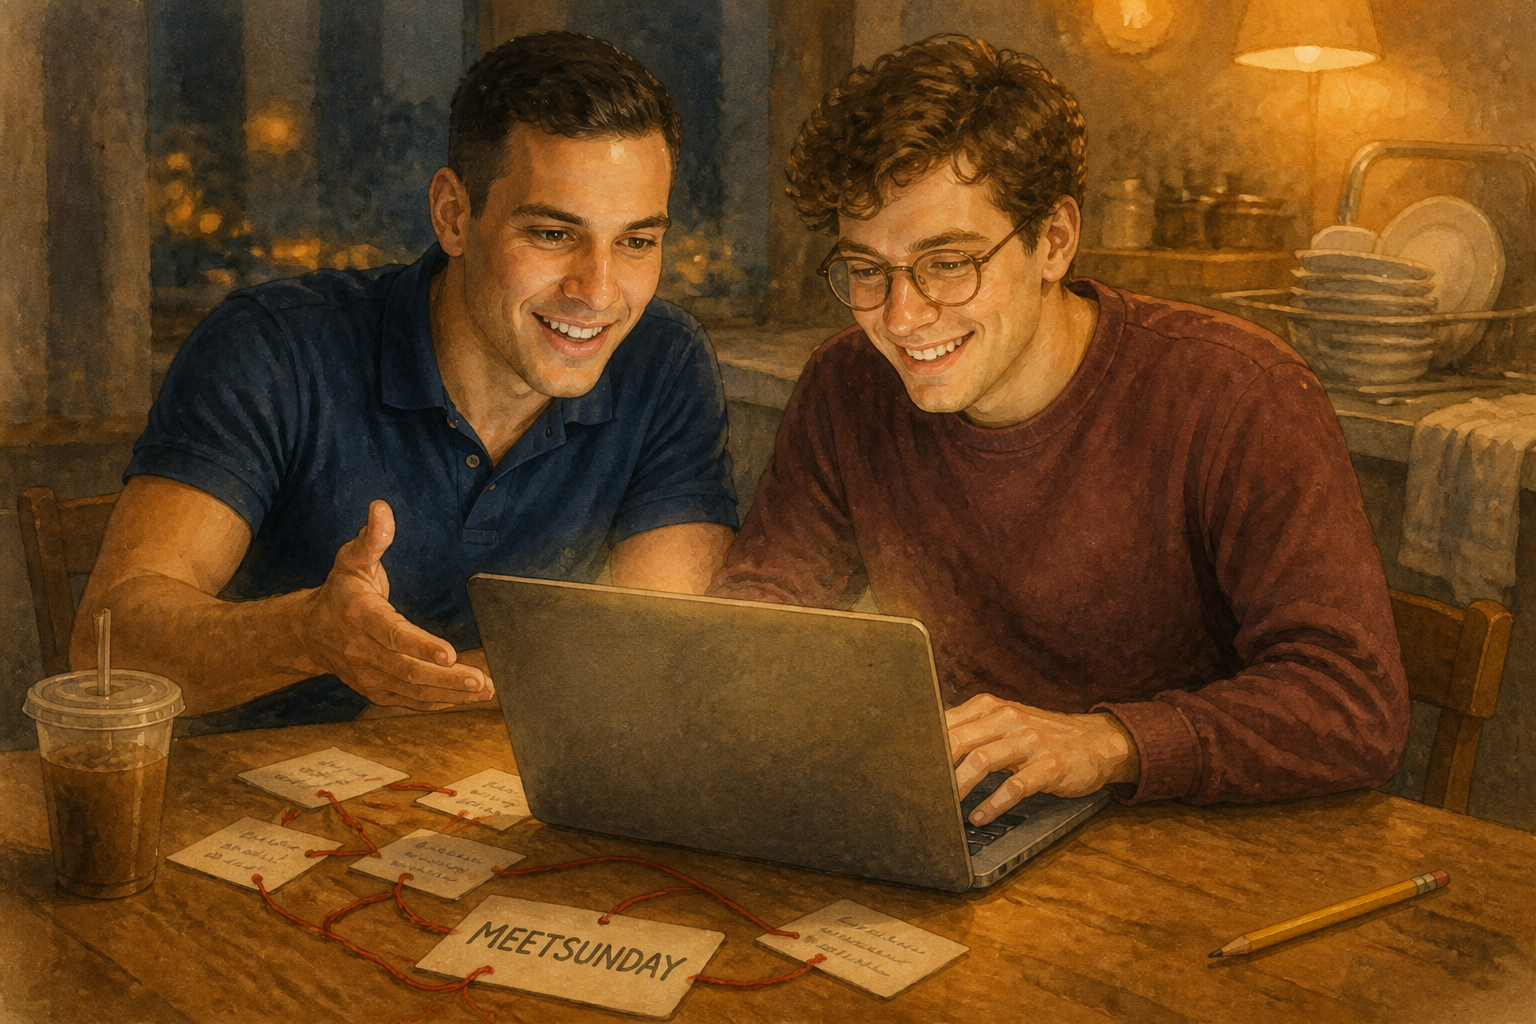
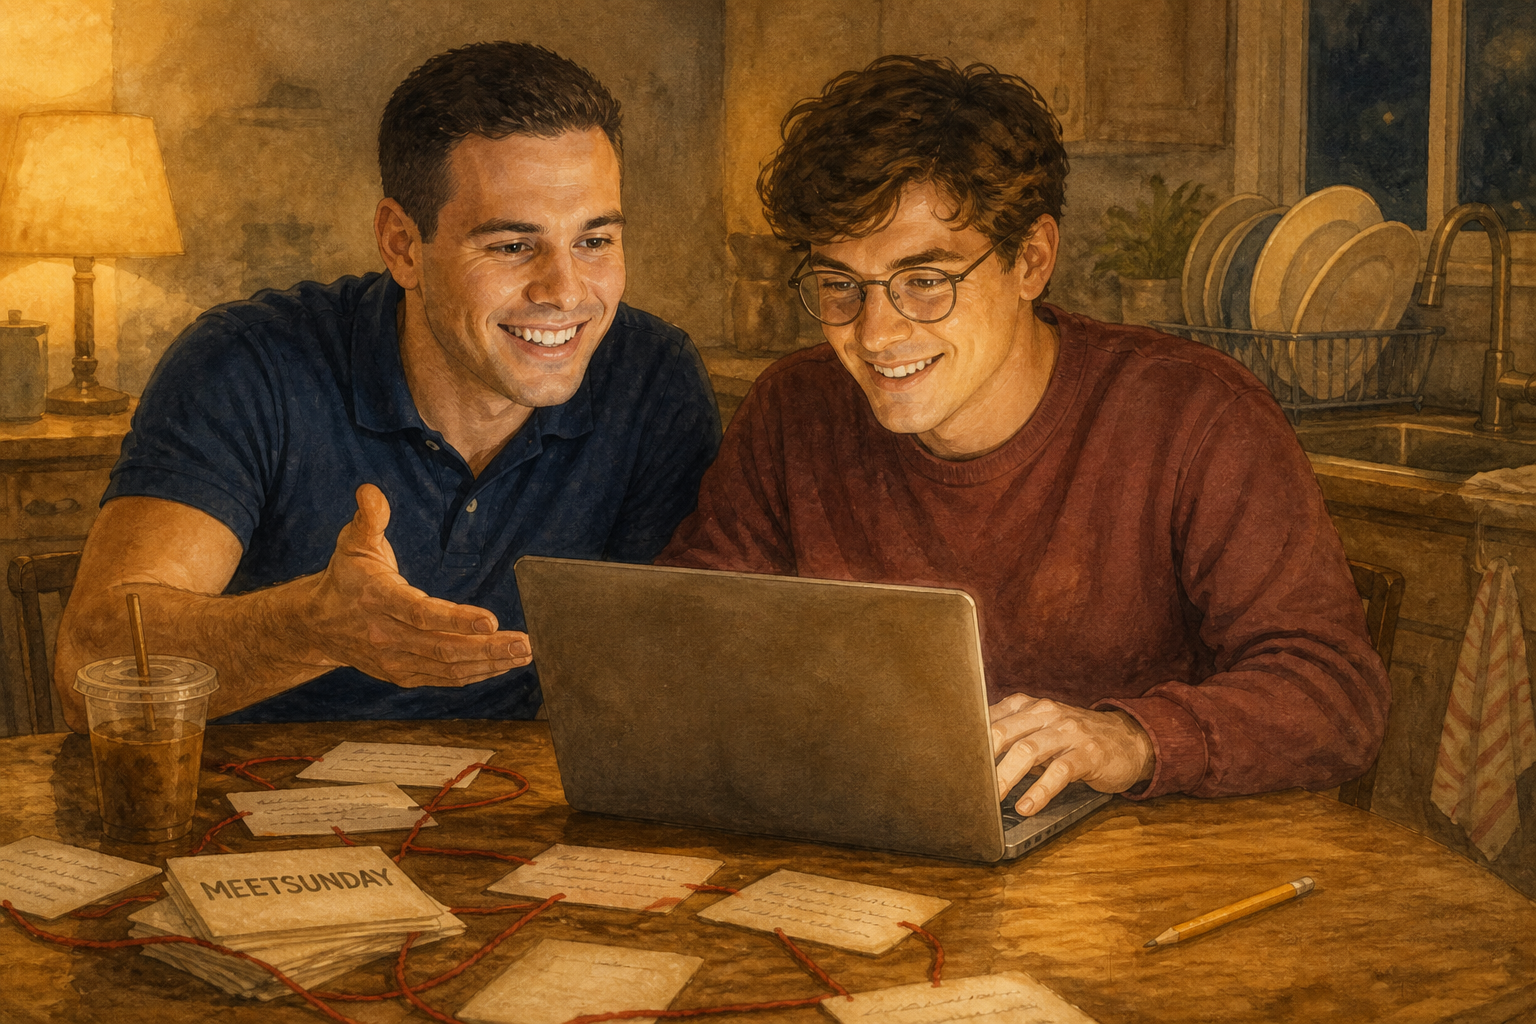
the-introducer: college look reseeded (Gary picked candidate A), gary-vee cameo entity
gary-vee: public-figure cameo (rule-4 precedent), two-photo commons
stack, hyper-real master locked; cast beside college David in spread 7
at Gary's direction. College seed rolled from restored roll-3 state
after the preferred roll was overwritten un-parked (lesson re-learned:
every roll parked in candidates/ from now on).

Claude-Session: https://claude.ai/code/session_01JVtKMRrUWbxURTa8pYGHy3

diff --git a/universe/reference/david-kobrosky/college/prompts.md b/universe/reference/david-kobrosky/college/prompts.md
@@ -3,7 +3,7 @@
 REGISTER-NEUTRAL HYPER-REAL (entity-level SPEC v0.38 default applies to this look too). Identity source: the anchor photograph `photos/06-college-bw-hires.png` (real young David, black and white: colorize plausibly — dark brown hair, warm light-tan skin). Completely clean-shaven; neat short college cut with a fuller, lower, straighter hairline than the present era; same wide grin, strong jaw, thick eyebrows.
 
 ## face-neutral  -> reference/david-kobrosky/college/face-neutral.png (1024x1024)
-Hyper-realistic head-and-shoulders portrait of ONE college-age man, early twenties, facing the viewer on a soft warm neutral studio background. MATCH THE FACE IN THE SUPPLIED BLACK-AND-WHITE PHOTOGRAPH EXACTLY, rendered in natural color: COMPLETELY CLEAN-SHAVEN, neat short dark-brown hair whose HAIRLINE SITS LOW AND STRAIGHT ACROSS THE FOREHEAD WITH NO TEMPLE RECESSION AT ALL, hair dense and slightly combed forward exactly as in the photograph, thick dark eyebrows, the same strong jaw and wide warm grin with visible teeth, warm light-tan skin with true texture. He wears a NAVY POLO SHIRT with a small collar. This is the YOUNGER version of the bearded man in the other supplied photographs: same bones, none of the age. Painted realism at photographic fidelity. Single figure, no text. NOT a stylized illustration, NOT cartoon, NOT ink-and-wash, no stubble, no beard, no plastic airbrushed skin.
+Hyper-realistic head-and-shoulders portrait of ONE college-age man, early twenties, facing the viewer on a soft warm neutral studio background. THE FIRST SUPPLIED PHOTOGRAPHS ARE THE GROUND TRUTH FOR THIS FACE; match them exactly, rendered in natural color. His young face is SOFTER AND ROUNDER than a chiseled model's: FULLER CHEEKS, a gentle jaw that widens when he smiles, THICK STRAIGHT DARK EYEBROWS set close to warm brown eyes that CREASE ALMOST SHUT when he grins, a slightly broad nose, and his signature HUGE OPEN TOOTHY SMILE that takes over the lower half of his face. COMPLETELY CLEAN-SHAVEN. Dense short dark-brown hair cropped in a straight line across the forehead, HAIRLINE LOW AND STRAIGHT with no temple recession, combed slightly forward. Warm light-tan skin with true texture. He looks like a friendly, magnetic college kid, never like a fashion model. He wears a NAVY POLO SHIRT with a small collar. This is the YOUNGER version of the bearded man in the other supplied photographs: same bones, none of the age. Painted realism at photographic fidelity. Single figure, no text. NOT a stylized illustration, NOT cartoon, NOT ink-and-wash, no stubble, no beard, no plastic airbrushed skin.
 
 ## forward-fullbody  -> reference/david-kobrosky/college/forward-fullbody.png (1024x1536)
-Hyper-realistic FULL BODY study, head to shoes, of the SAME college-age man as the supplied face reference, standing facing the viewer on a soft warm neutral studio background. Early twenties, COMPLETELY CLEAN-SHAVEN, dense short dark-brown hair with the LOW STRAIGHT no-recession hairline combed slightly forward, wide warm grin, athletic student build. Wardrobe: NAVY POLO SHIRT neatly worn, LIGHT KHAKI CHINOS, clean white sneakers: a professional-looking college kid. Relaxed confident stance. Entire figure in frame, feet visible. Painted realism at photographic fidelity. Single figure, no text. NOT a stylized illustration, NOT cartoon, NOT ink-and-wash, no stubble, no beard.
+Hyper-realistic FULL BODY study, head to shoes, of the SAME college-age man as the supplied face reference, standing facing the viewer on a soft warm neutral studio background. Early twenties, the SAME soft-rounder face as the supplied face reference: fuller cheeks, thick straight brows close to creased smiling eyes, the huge open toothy grin, COMPLETELY CLEAN-SHAVEN, dense short dark-brown hair with the LOW STRAIGHT no-recession hairline combed slightly forward, athletic student build. Wardrobe: NAVY POLO SHIRT neatly worn, LIGHT KHAKI CHINOS, clean white sneakers: a professional-looking college kid. Relaxed confident stance. Entire figure in frame, feet visible. Painted realism at photographic fidelity. Single figure, no text. NOT a stylized illustration, NOT cartoon, NOT ink-and-wash, no stubble, no beard.

diff --git a/universe/reference/gary-vee/prompts.md b/universe/reference/gary-vee/prompts.md
@@ -1,0 +1,6 @@
+# gary-vee — generation prompts
+
+Identity source: the two-photo press stack in `photos/` (Gary Vaynerchuk, public figure). One-spread cameo; a single master is the whole matrix, per the dario precedent.
+
+## master  -> reference/gary-vee/master.png (1024x1536)
+Hyper-realistic FULL BODY study, head to shoes, of ONE man standing facing the viewer on a soft warm neutral studio background. GARY VAYNERCHUK as in the supplied photographs, mid-2010s era: late thirties, SHORT DARK CLOSE-CROPPED HAIR slightly receding, DARK SALT-AND-PEPPER STUBBLE BEARD, strong brow, expressive dark eyes, STOCKY ENERGETIC build. MATCH HIS FACE EXACTLY to the photographs. Wardrobe: plain DARK CREW-NECK TEE, dark jeans, sneakers. Stance: energetic, mid-sentence, one hand raised in an animated gesture, warm confident grin. Painted realism at photographic fidelity, true skin texture. Single figure, single panel, no text. NOT a caricature, NOT cartoon, NOT ink-and-wash, no suit, no plastic airbrushed skin.
